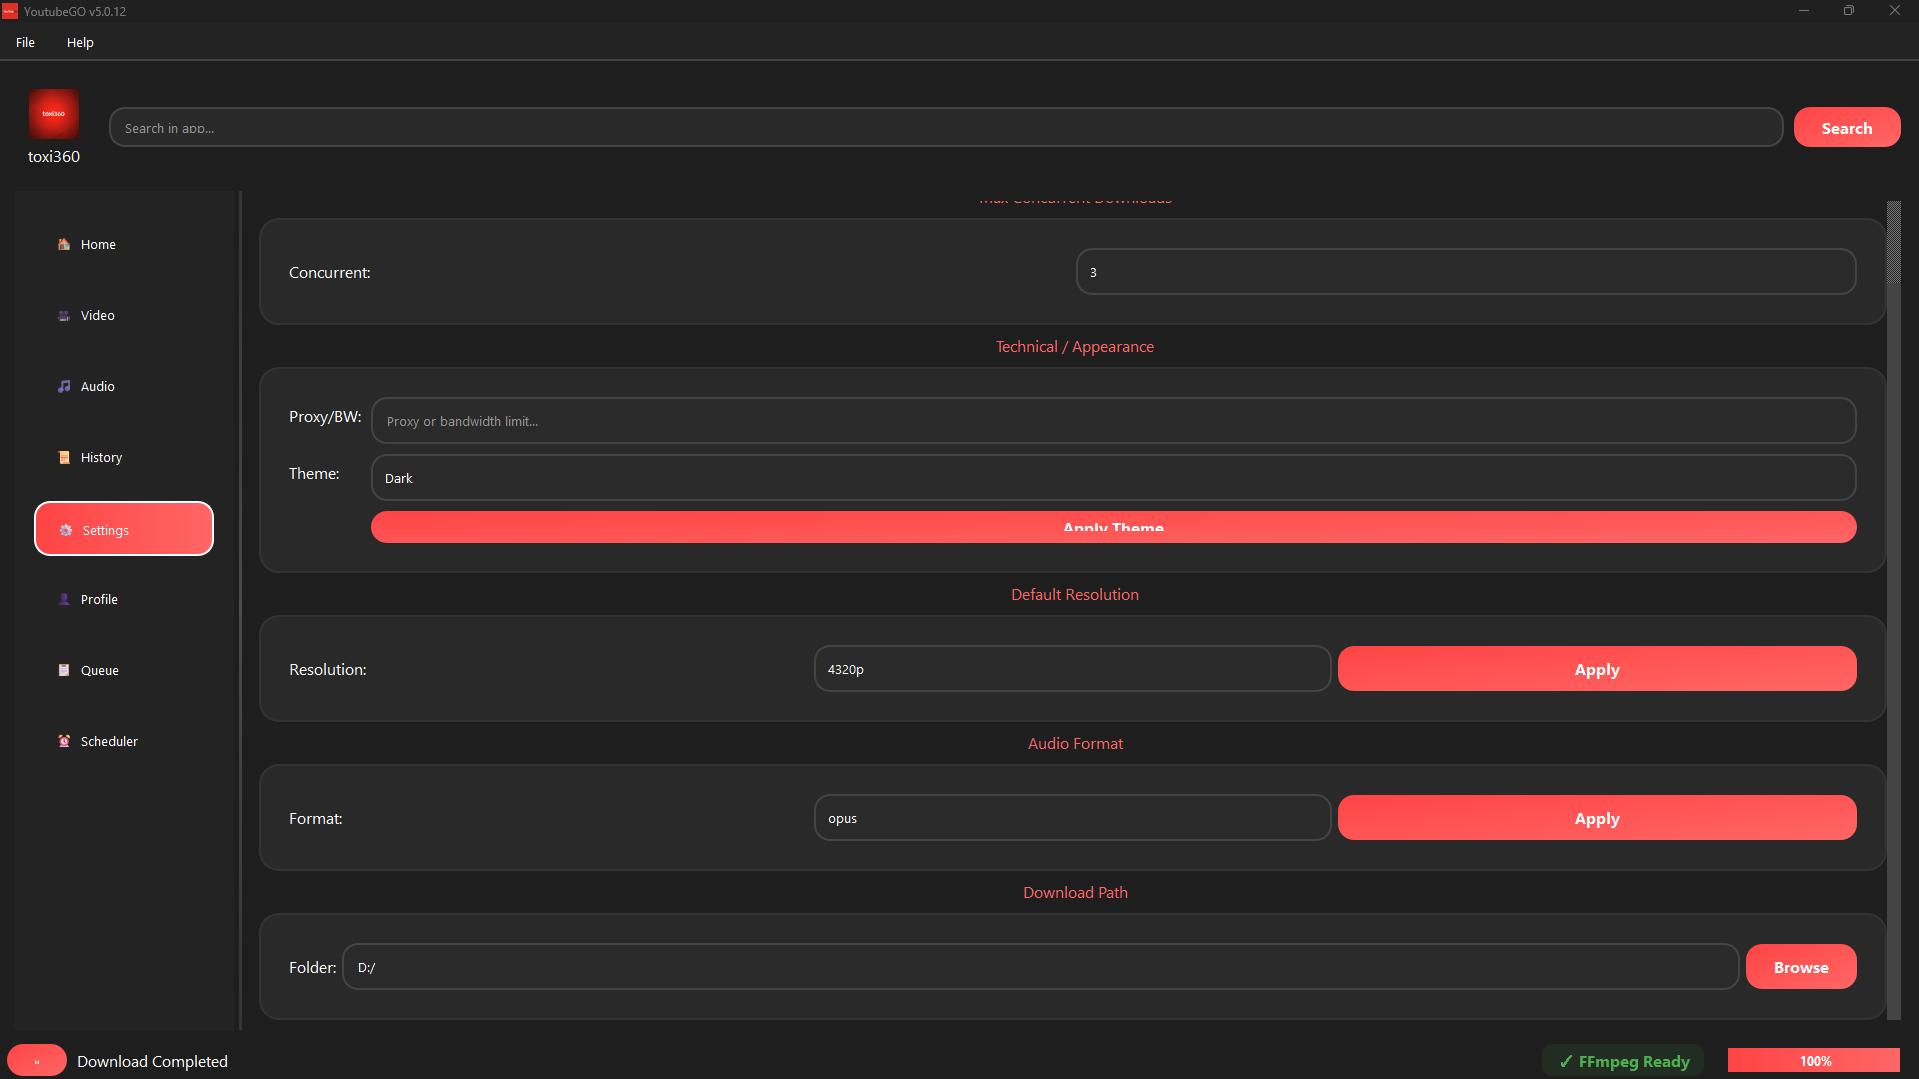
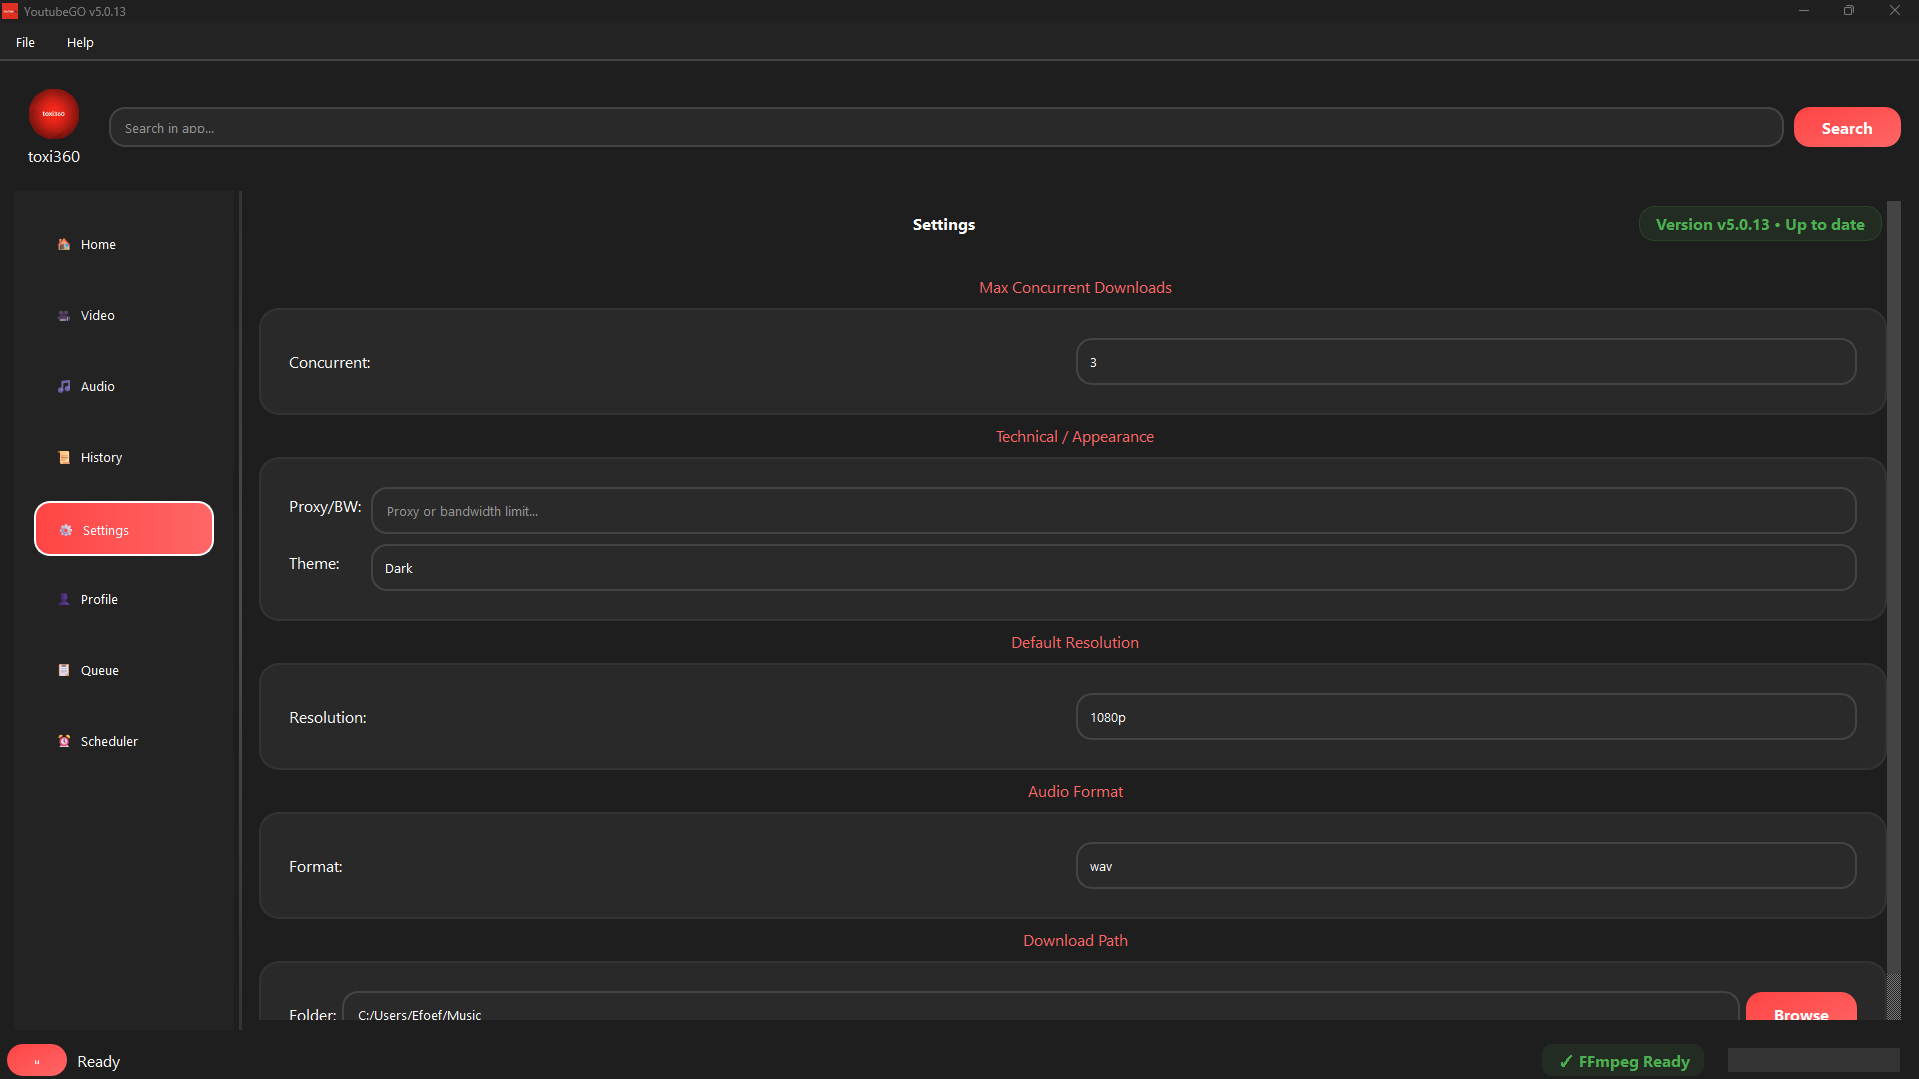
UI/UX: Improve homepage and settings page clarity
Homepage:
- Remove specific format mentions (MP3/MP4) - Make descriptions more user-friendly

Settings:
- Remove all Apply buttons
- Make settings apply instantly on change
- Create cleaner interface by removing redundant buttons

diff --git a/ui/pages/settings_page.py b/ui/pages/settings_page.py
@@ -90,14 +90,13 @@ class SettingsPage(QWidget):
         self.proxy_edit = QLineEdit()
         self.proxy_edit.setText(self.parent.user_profile.get_proxy())
         self.proxy_edit.setPlaceholderText("Proxy or bandwidth limit...")
+        self.proxy_edit.textChanged.connect(self.proxy_changed)
         self.theme_combo = QComboBox()
         self.theme_combo.addItems(["Dark","Light"])
         self.theme_combo.setCurrentText(self.parent.user_profile.get_theme())
+        self.theme_combo.currentTextChanged.connect(self.theme_changed)
         fl.addRow("Proxy/BW:", self.proxy_edit)
         fl.addRow("Theme:", self.theme_combo)
-        theme_btn = AnimatedButton("Apply Theme")
-        theme_btn.clicked.connect(self.change_theme_clicked)
-        fl.addWidget(theme_btn)
         layout.addWidget(g_tech)
 
         # Resolution Group
@@ -108,11 +107,9 @@ class SettingsPage(QWidget):
         self.res_combo = QComboBox()
         self.res_combo.addItems(["144p","240p","360p","480p","720p","1080p","1440p","2160p","4320p"])
         self.res_combo.setCurrentText(self.parent.user_profile.get_default_resolution())
+        self.res_combo.currentTextChanged.connect(self.resolution_changed)
         r_hl.addWidget(QLabel("Resolution:"))
         r_hl.addWidget(self.res_combo)
-        a_btn = AnimatedButton("Apply")
-        a_btn.clicked.connect(self.apply_resolution)
-        r_hl.addWidget(a_btn)
         layout.addWidget(g_res)
 
         # Audio Format Group
@@ -123,11 +120,9 @@ class SettingsPage(QWidget):
         self.audio_format_combo = QComboBox()
         self.audio_format_combo.addItems(self.parent.user_profile.get_available_audio_formats())
         self.audio_format_combo.setCurrentText(self.parent.user_profile.get_audio_format())
+        self.audio_format_combo.currentTextChanged.connect(self.audio_format_changed)
         a_hl.addWidget(QLabel("Format:"))
         a_hl.addWidget(self.audio_format_combo)
-        audio_btn = AnimatedButton("Apply")
-        audio_btn.clicked.connect(self.apply_audio_format)
-        a_hl.addWidget(audio_btn)
         layout.addWidget(g_audio)
 
         # Download Path Group
@@ -155,23 +150,22 @@ class SettingsPage(QWidget):
         self.parent.max_concurrent_downloads = int(val)
         self.parent.append_log(f"Max concurrent downloads set to {val}")
 
-    def change_theme_clicked(self):
-        theme = self.theme_combo.currentText()
+    def proxy_changed(self, text):
+        self.parent.user_profile.set_proxy(text)
+        self.parent.append_log(f"Proxy setting updated: {text}")
+
+    def theme_changed(self, theme):
+        self.parent.user_profile.set_theme(theme)
         self.parent.theme_manager.change_theme(theme)
+        self.parent.append_log(f"Theme changed to: {theme}")
 
-    def apply_resolution(self):
-        sr = self.res_combo.currentText()
-        self.parent.user_profile.set_default_resolution(sr)
-        prx = self.proxy_edit.text().strip()
-        self.parent.user_profile.set_proxy(prx)
-        self.parent.append_log(f"Resolution set: {sr}, Proxy: {prx}")
-        QMessageBox.information(self, "Settings", f"Resolution: {sr}\nProxy: {prx}")
+    def resolution_changed(self, resolution):
+        self.parent.user_profile.set_default_resolution(resolution)
+        self.parent.append_log(f"Default resolution set to: {resolution}")
 
-    def apply_audio_format(self):
-        audio_format = self.audio_format_combo.currentText()
-        self.parent.user_profile.set_audio_format(audio_format)
-        self.parent.append_log(f"Audio format set to: {audio_format}")
-        QMessageBox.information(self, "Settings", f"Audio format set to: {audio_format}")
+    def audio_format_changed(self, format):
+        self.parent.user_profile.set_audio_format(format)
+        self.parent.append_log(f"Audio format set to: {format}")
 
     def select_download_path(self):
         folder = QFileDialog.getExistingDirectory(self, "Select Download Folder")

diff --git a/ui/pages/home_page.py b/ui/pages/home_page.py
@@ -71,8 +71,8 @@ class HomePage(QWidget):
         grid_layout.setSpacing(15)
 
         features = [
-            ("Video Download", "Download videos in MP4 format with various quality options", 1),
-            ("Audio Download", "Extract audio in MP3 format from videos", 2),
+            ("Video Download", "Download videos with various quality options", 1),
+            ("Audio Download", "Download audio in your preferred format", 2),
             ("Download History", "View and manage your download history", 3),
             ("Settings", "Configure download settings and preferences", 4),
             ("Profile", "Manage your user profile and preferences", 5),
